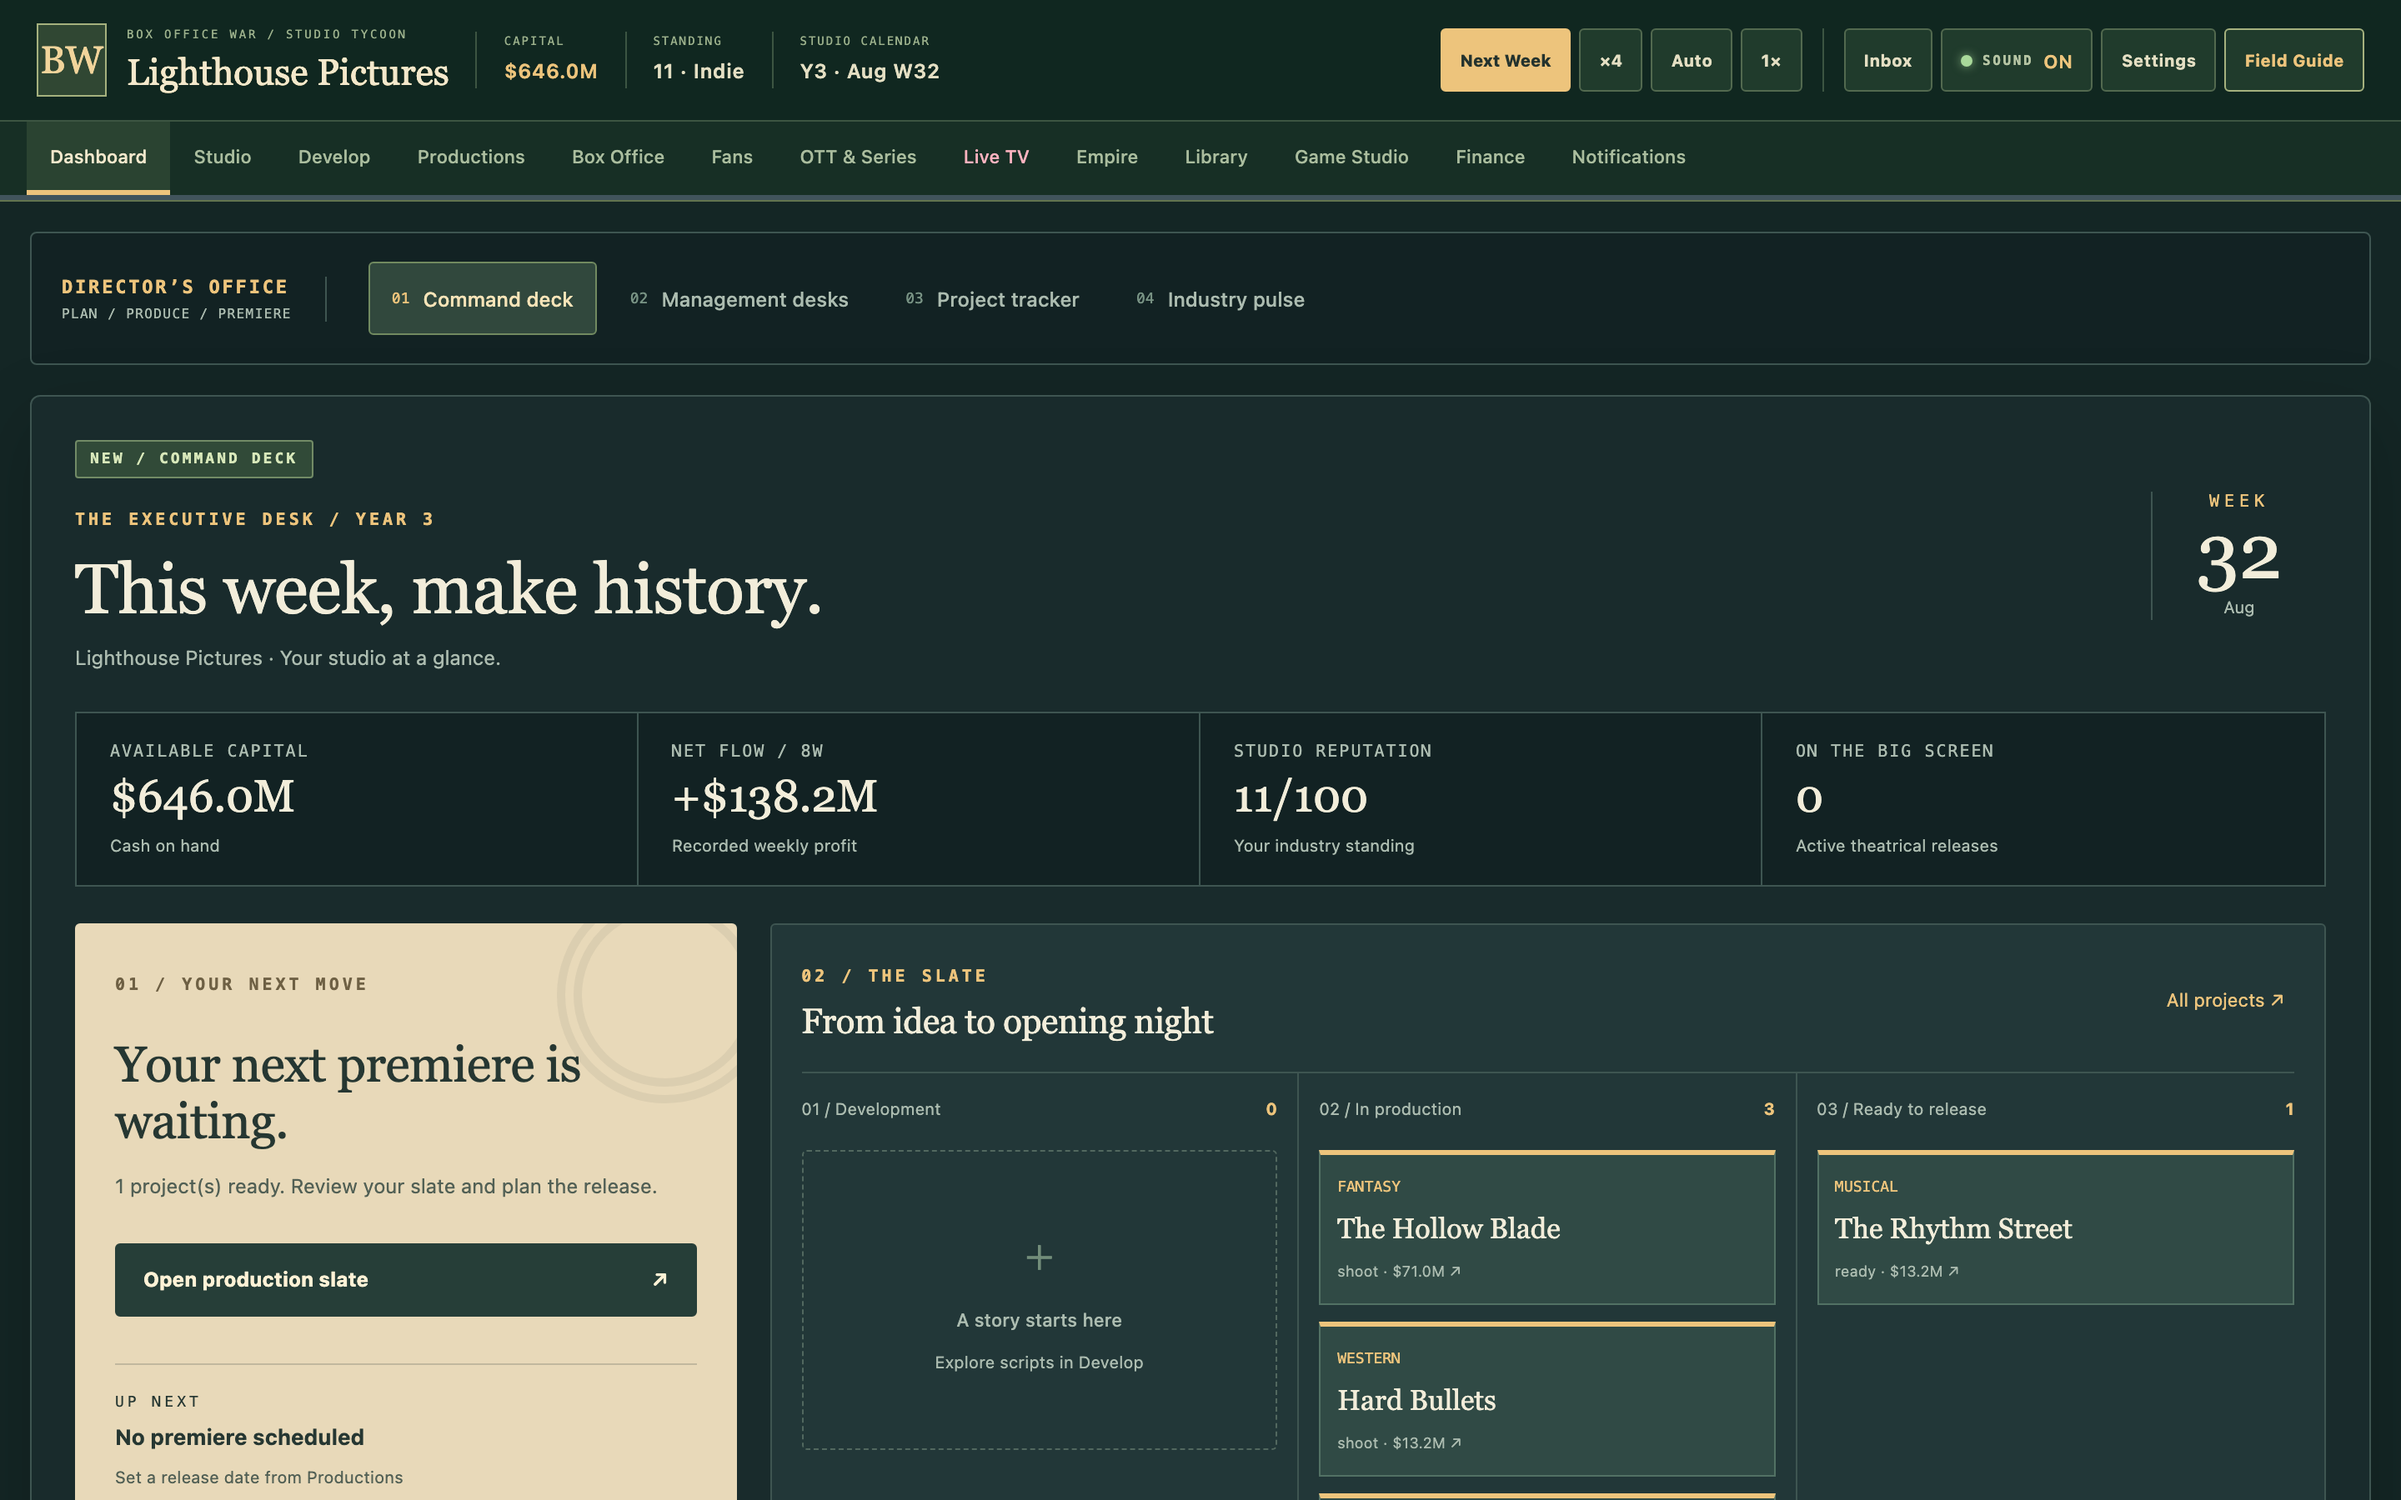
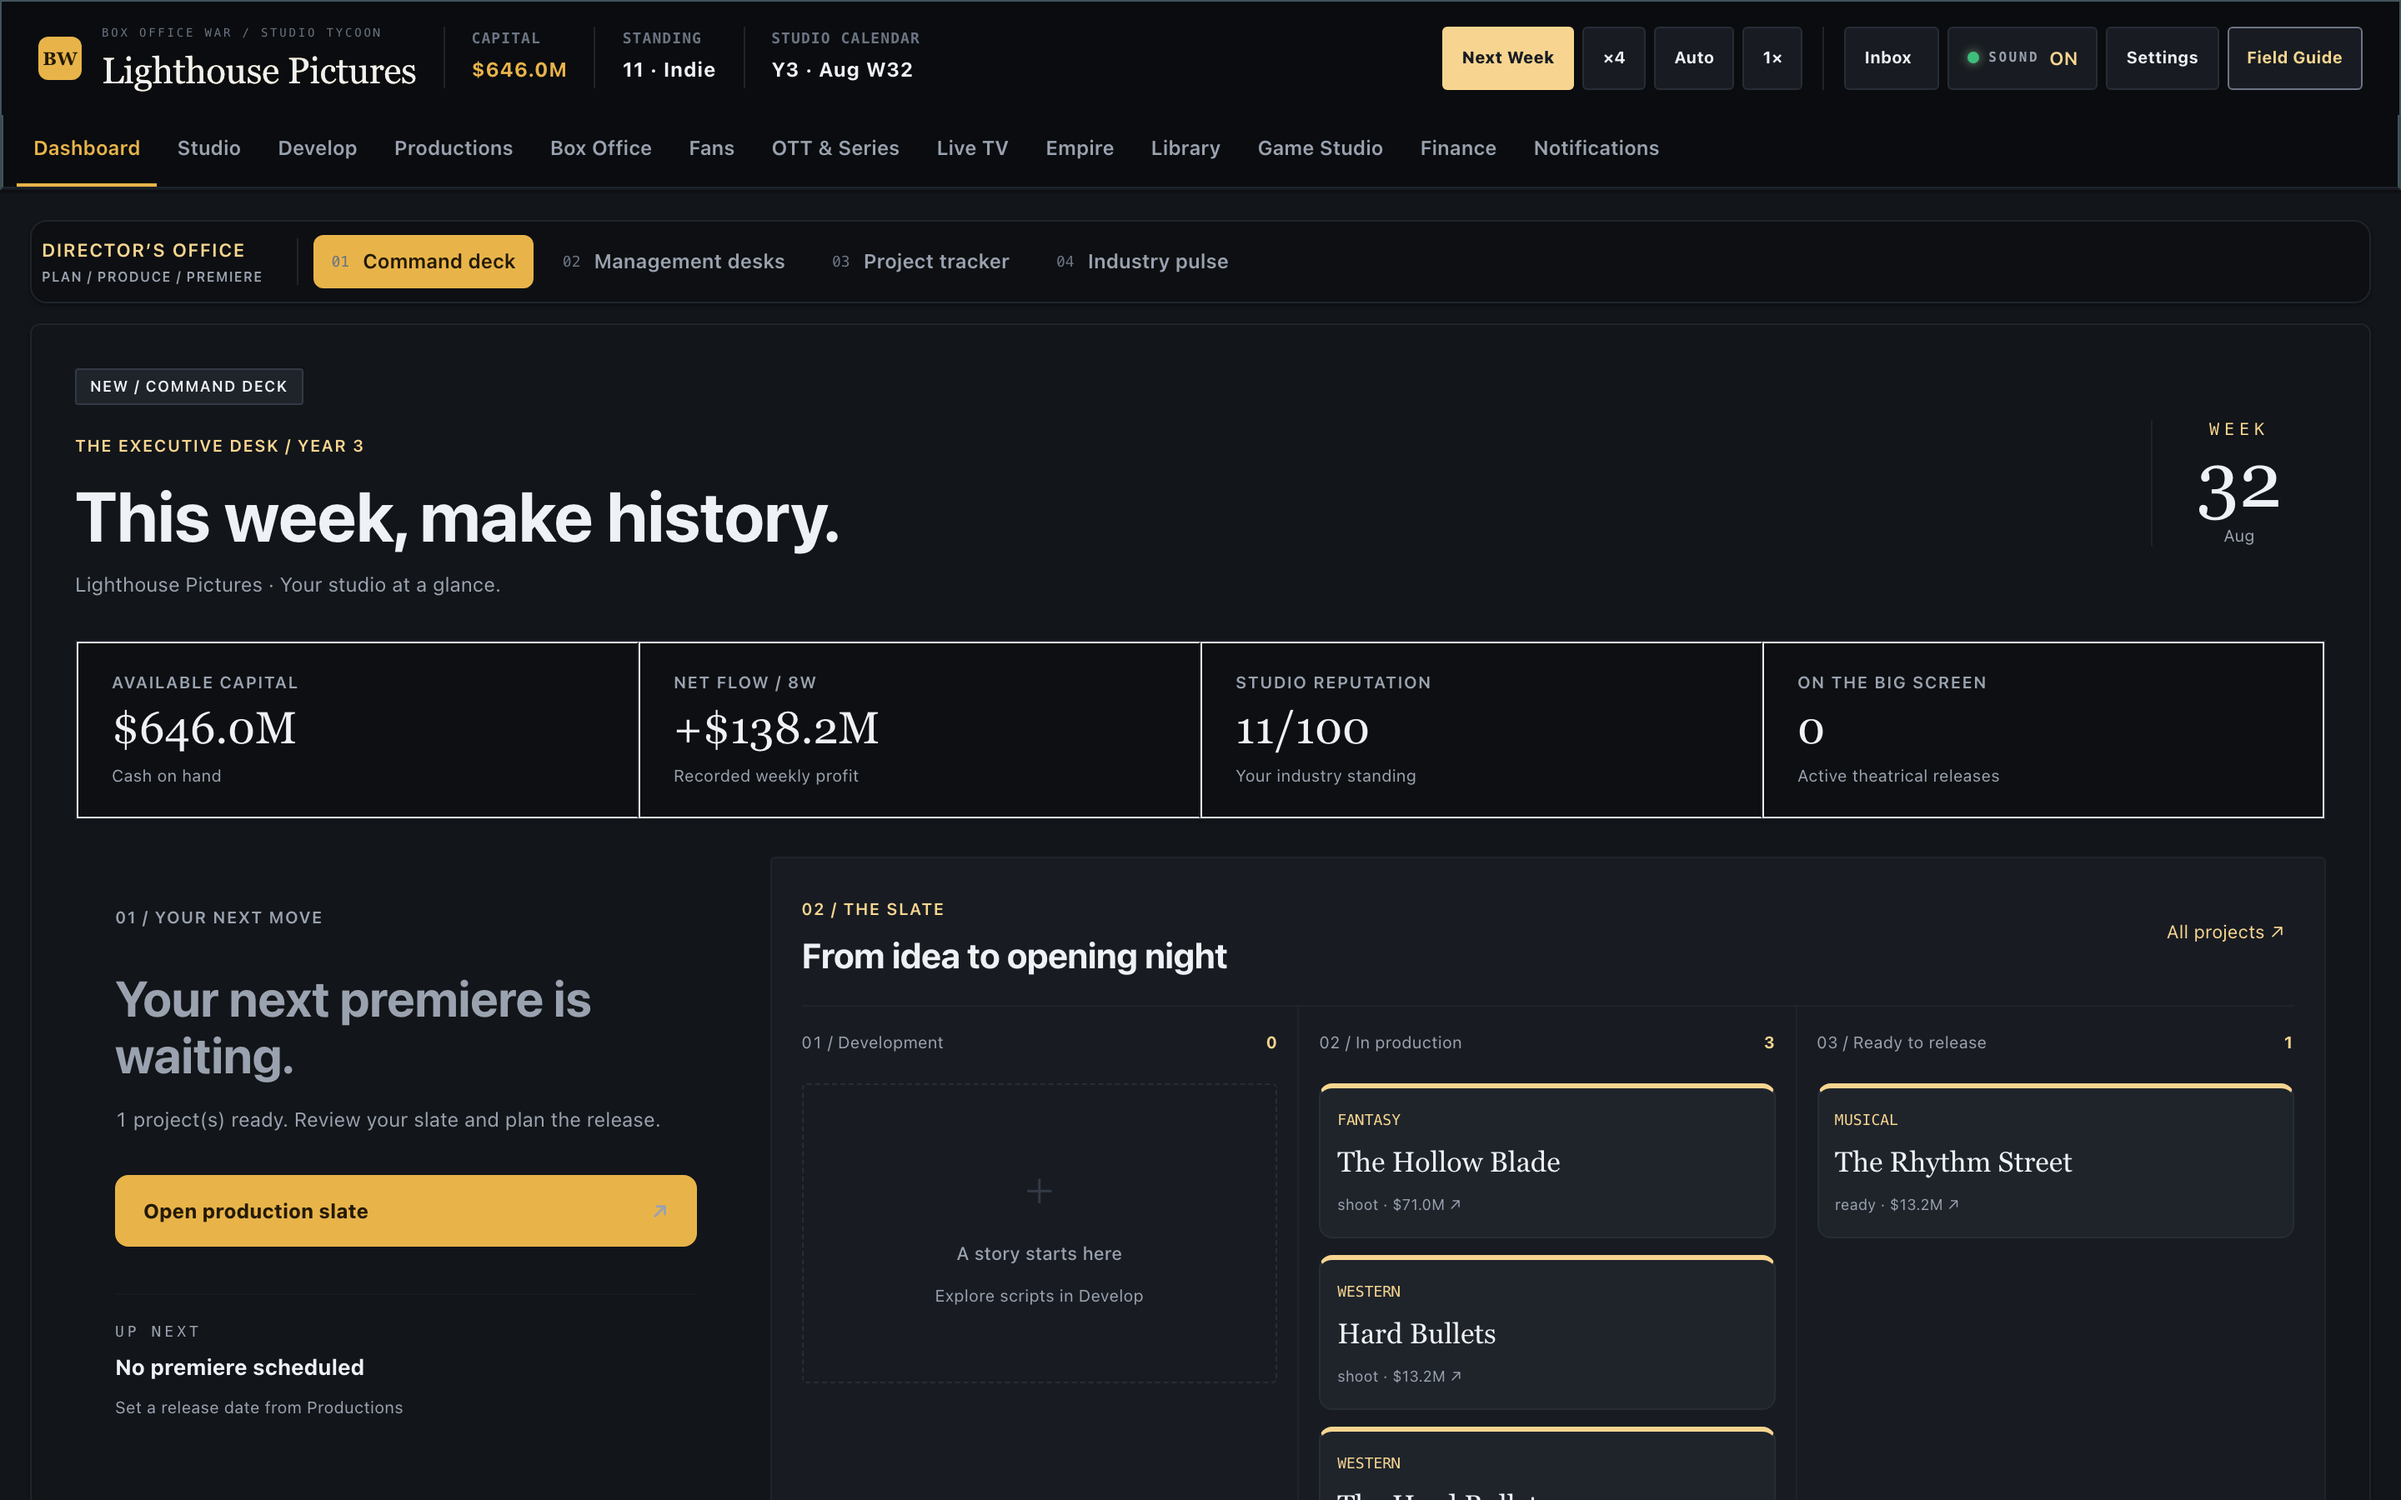
release: v41.2 — new UI system
Version 41.1 -> 41.2 (versionCode 51), SW cache bow-v104.

Ships the system/ layer (single palette, component set, generated legacy
remap) and the landscape dashboard that fits without scrolling. Store
screenshots re-shot from this build; the style guide is excluded from the
APK bundle.

diff --git a/index.html b/index.html
@@ -4,7 +4,7 @@
 <meta charset="UTF-8">
 <meta name="viewport" content="width=device-width, initial-scale=1.0, viewport-fit=cover">
 <meta name="theme-color" content="#181b1e" id="themeColorMeta">
-<meta name="app-version" content="41.1">
+<meta name="app-version" content="41.2">
 <meta name="description" content="Box Office War — a movie & series studio tycoon simulation. Greenlight films, survive the box office, build franchises, launch your own streamer and broadcast live TV channels.">
 <meta property="og:title" content="Box Office War — Movie & Series Studio Tycoon">
 <meta property="og:description" content="Greenlight films, survive the box office, build franchises, launch your own streamer, and broadcast 24/7 Live TV channels in this realistic Hollywood tycoon simulator.">
@@ -15,23 +15,23 @@
 <link rel="icon" href="icon.svg">
 <link rel="apple-touch-icon" href="icon-180.png">
 <link rel="manifest" href="manifest.webmanifest">
-<link rel="stylesheet" href="design-tokens.css?v=41.1">
-<link rel="stylesheet" href="style.css?v=41.1">
-<link rel="stylesheet" href="ui-v33.css?v=41.1">
-<link rel="stylesheet" href="lot-life.css?v=41.1">
-<link rel="stylesheet" href="bow-restyle.css?v=41.1">
-<link rel="stylesheet" href="lot-gameplay.css?v=41.1">
-<link rel="stylesheet" href="welcome.css?v=41.1">
-<link rel="stylesheet" href="command-deck.css?v=41.1">
-<link rel="stylesheet" href="industry-expansion.css?v=41.1">
-<link rel="stylesheet" href="studio-nextwave.css?v=41.1">
-<link rel="stylesheet" href="theme-studio.css?v=41.1">
-<link rel="stylesheet" href="landscape-phone.css?v=41.1">
+<link rel="stylesheet" href="design-tokens.css?v=41.2">
+<link rel="stylesheet" href="style.css?v=41.2">
+<link rel="stylesheet" href="ui-v33.css?v=41.2">
+<link rel="stylesheet" href="lot-life.css?v=41.2">
+<link rel="stylesheet" href="bow-restyle.css?v=41.2">
+<link rel="stylesheet" href="lot-gameplay.css?v=41.2">
+<link rel="stylesheet" href="welcome.css?v=41.2">
+<link rel="stylesheet" href="command-deck.css?v=41.2">
+<link rel="stylesheet" href="industry-expansion.css?v=41.2">
+<link rel="stylesheet" href="studio-nextwave.css?v=41.2">
+<link rel="stylesheet" href="theme-studio.css?v=41.2">
+<link rel="stylesheet" href="landscape-phone.css?v=41.2">
 <!-- UI system: single source of truth. Loaded last so it wins over every
      legacy layer; legacy-map.css re-points the old palettes at these tokens. -->
-<link rel="stylesheet" href="system/tokens.css?v=41.1">
-<link rel="stylesheet" href="system/legacy-map.css?v=41.1">
-<link rel="stylesheet" href="system/components.css?v=41.1">
+<link rel="stylesheet" href="system/tokens.css?v=41.2">
+<link rel="stylesheet" href="system/legacy-map.css?v=41.2">
+<link rel="stylesheet" href="system/components.css?v=41.2">
 </head>
 <body>
 <div id="offlineBanner" class="offline-banner" style="display:none">Offline mode — changes saved locally in device storage</div>
@@ -171,65 +171,65 @@
 <div id="srAnnounce" class="sr-only" role="status" aria-live="polite" aria-atomic="true"></div>
 <div id="srAlert" class="sr-only" role="alert" aria-live="assertive" aria-atomic="true"></div>
 
-<script src="data.js?v=41.1"></script>
-<script src="engine.js?v=41.1"></script>
-<script src="industry-expansion-suite.js?v=41.1"></script>
-<script src="studio-nextwave-suite.js?v=41.1"></script>
-<script src="i18n.js?v=41.1"></script>
-<script src="finance-desk.js?v=41.1"></script>
-<script src="ui.js?v=41.1"></script>
-<script src="settings-studio.js?v=41.1"></script>
-<script src="finance-tools.js?v=41.1"></script>
-<script src="v31-features.js?v=41.1"></script>
-<script src="challenge-leaderboard.js?v=41.1"></script>
-<script src="theater-chains.js?v=41.1"></script>
-<script src="dynamic-soundtrack.js?v=41.1"></script>
-<script src="dynasty-legacy.js?v=41.1"></script>
-<script src="bow-shorts.js?v=41.1"></script>
-<script src="talent-agency.js?v=41.1"></script>
-<script src="film-restoration.js?v=41.1"></script>
-<script src="festival-pr.js?v=41.1"></script>
-<script src="studio-facilities.js?v=41.1"></script>
-<script src="syndication-tv.js?v=41.1"></script>
-<script src="talent-contracts.js?v=41.1"></script>
-<script src="bond-market.js?v=41.1"></script>
-<script src="clash-analytics.js?v=41.1"></script>
-<script src="bo-charts.js?v=41.1"></script>
-<script src="cinematic-universe.js?v=41.1"></script>
-<script src="location-scouting.js?v=41.1"></script>
-<script src="production-insurance.js?v=41.1"></script>
-<script src="awards-campaign.js?v=41.1"></script>
-<script src="board-targets.js?v=41.1"></script>
-<script src="fan-conventions.js?v=41.1"></script>
-<script src="test-screenings.js?v=41.1"></script>
-<script src="studio-espionage.js?v=41.1"></script>
-<script src="merch-licensing.js?v=41.1"></script>
-<script src="territory-licensing.js?v=41.1"></script>
-<script src="custom-sandbox.js?v=41.1"></script>
-<script src="film-locations-tax.js?v=41.1"></script>
-<script src="studio-operations-suite.js?v=41.1"></script>
-<script src="gamedev-console-hardware.js?v=41.1"></script>
-<script src="live-ops-coproduction.js?v=41.1"></script>
-<script src="hollywood-crises-pr.js?v=41.1"></script>
-<script src="demographics-audiences.js?v=41.1"></script>
-<script src="production-creativity-suite.js?v=41.1"></script>
-<script src="exhibition-plf-concessions.js?v=41.1"></script>
-<script src="marketing-blitz-engine.js?v=41.1"></script>
-<script src="studio-agent-life.js?v=41.1"></script>
-<script src="studio-lot-engine.js?v=41.1"></script>
-<script src="studio-actors.js?v=41.1"></script>
-<script src="studio-departments.js?v=41.1"></script>
-<script src="studio-lot-2d.js?v=41.1"></script>
-<script src="lot-life.js?v=41.1"></script>
-<script src="lot-feel.js?v=41.1"></script>
-<script src="bow-motion.js?v=41.1"></script>
-<script src="box-office-sim-2-cast.js?v=41.1"></script>
-<script src="gamestudio-gdd-engine.js?v=41.1"></script>
-<script src="gamestudio-desk.js?v=41.1"></script>
-<script src="social-viral-network.js?v=41.1"></script>
-<script src="sports-stadium-deals.js?v=41.1"></script>
-<script src="stage-division.js?v=41.1"></script>
-<script src="kairo-theme-suite.js?v=41.1"></script>
+<script src="data.js?v=41.2"></script>
+<script src="engine.js?v=41.2"></script>
+<script src="industry-expansion-suite.js?v=41.2"></script>
+<script src="studio-nextwave-suite.js?v=41.2"></script>
+<script src="i18n.js?v=41.2"></script>
+<script src="finance-desk.js?v=41.2"></script>
+<script src="ui.js?v=41.2"></script>
+<script src="settings-studio.js?v=41.2"></script>
+<script src="finance-tools.js?v=41.2"></script>
+<script src="v31-features.js?v=41.2"></script>
+<script src="challenge-leaderboard.js?v=41.2"></script>
+<script src="theater-chains.js?v=41.2"></script>
+<script src="dynamic-soundtrack.js?v=41.2"></script>
+<script src="dynasty-legacy.js?v=41.2"></script>
+<script src="bow-shorts.js?v=41.2"></script>
+<script src="talent-agency.js?v=41.2"></script>
+<script src="film-restoration.js?v=41.2"></script>
+<script src="festival-pr.js?v=41.2"></script>
+<script src="studio-facilities.js?v=41.2"></script>
+<script src="syndication-tv.js?v=41.2"></script>
+<script src="talent-contracts.js?v=41.2"></script>
+<script src="bond-market.js?v=41.2"></script>
+<script src="clash-analytics.js?v=41.2"></script>
+<script src="bo-charts.js?v=41.2"></script>
+<script src="cinematic-universe.js?v=41.2"></script>
+<script src="location-scouting.js?v=41.2"></script>
+<script src="production-insurance.js?v=41.2"></script>
+<script src="awards-campaign.js?v=41.2"></script>
+<script src="board-targets.js?v=41.2"></script>
+<script src="fan-conventions.js?v=41.2"></script>
+<script src="test-screenings.js?v=41.2"></script>
+<script src="studio-espionage.js?v=41.2"></script>
+<script src="merch-licensing.js?v=41.2"></script>
+<script src="territory-licensing.js?v=41.2"></script>
+<script src="custom-sandbox.js?v=41.2"></script>
+<script src="film-locations-tax.js?v=41.2"></script>
+<script src="studio-operations-suite.js?v=41.2"></script>
+<script src="gamedev-console-hardware.js?v=41.2"></script>
+<script src="live-ops-coproduction.js?v=41.2"></script>
+<script src="hollywood-crises-pr.js?v=41.2"></script>
+<script src="demographics-audiences.js?v=41.2"></script>
+<script src="production-creativity-suite.js?v=41.2"></script>
+<script src="exhibition-plf-concessions.js?v=41.2"></script>
+<script src="marketing-blitz-engine.js?v=41.2"></script>
+<script src="studio-agent-life.js?v=41.2"></script>
+<script src="studio-lot-engine.js?v=41.2"></script>
+<script src="studio-actors.js?v=41.2"></script>
+<script src="studio-departments.js?v=41.2"></script>
+<script src="studio-lot-2d.js?v=41.2"></script>
+<script src="lot-life.js?v=41.2"></script>
+<script src="lot-feel.js?v=41.2"></script>
+<script src="bow-motion.js?v=41.2"></script>
+<script src="box-office-sim-2-cast.js?v=41.2"></script>
+<script src="gamestudio-gdd-engine.js?v=41.2"></script>
+<script src="gamestudio-desk.js?v=41.2"></script>
+<script src="social-viral-network.js?v=41.2"></script>
+<script src="sports-stadium-deals.js?v=41.2"></script>
+<script src="stage-division.js?v=41.2"></script>
+<script src="kairo-theme-suite.js?v=41.2"></script>
 <script>
 /* ═══ Update bar UI — shared by PWA reload and APK update checks ═══ */
 function bowShowUpdateBar(opts){

diff --git a/apk/build-www.js b/apk/build-www.js
@@ -50,8 +50,14 @@ fs.mkdirSync(WWW, { recursive: true });
 for (const f of FILES) fs.copyFileSync(path.join(ROOT, f), path.join(WWW, f));
 if (fs.existsSync(path.join(ROOT, "assets"))) fs.cpSync(path.join(ROOT, "assets"), path.join(WWW, "assets"), { recursive: true, filter: skipJunk });
 // The UI system lives in system/ (tokens, legacy palette map, components).
-// Directory copy, not the FILES list, so it keeps its path.
-if (fs.existsSync(path.join(ROOT, "system"))) fs.cpSync(path.join(ROOT, "system"), path.join(WWW, "system"), { recursive: true, filter: skipJunk });
+// Directory copy, not the FILES list, so it keeps its path. The style guide is
+// a developer reference and is not shipped to users.
+if (fs.existsSync(path.join(ROOT, "system"))) {
+  fs.cpSync(path.join(ROOT, "system"), path.join(WWW, "system"), {
+    recursive: true,
+    filter: (src) => skipJunk(src) && !src.endsWith("styleguide.html"),
+  });
+}
 if (fs.existsSync(path.join(ROOT, "pkg"))) fs.cpSync(path.join(ROOT, "pkg"), path.join(WWW, "pkg"), { recursive: true, filter: skipJunk });
 
 // strip the SW registration <script> block from the copied index.html

diff --git a/sw.js b/sw.js
@@ -2,7 +2,7 @@
    network-first so a fresh deploy is picked up on the next visit instead of
    serving a stale page from cache; everything else stays cache-first. */
 "use strict";
-const CACHE = "bow-v103-cache";
+const CACHE = "bow-v104-cache";
 const ASSETS = [
   "welcome.css",
   "command-deck.css",
